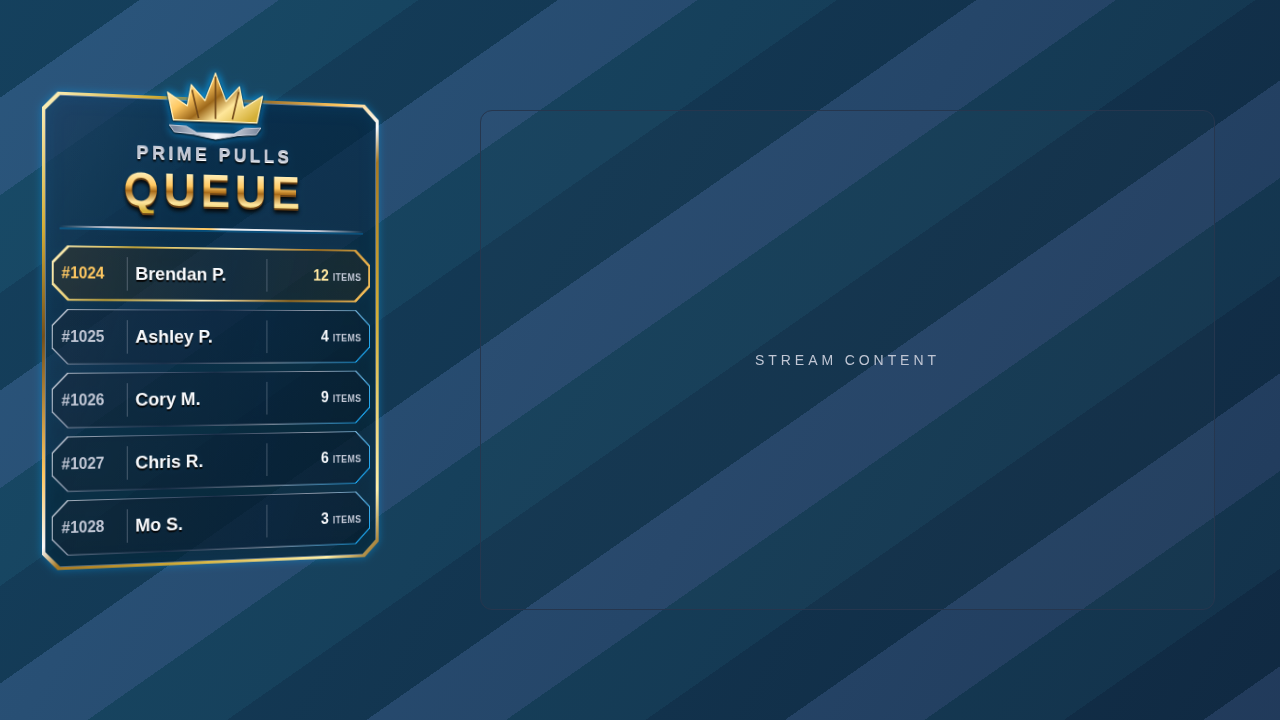
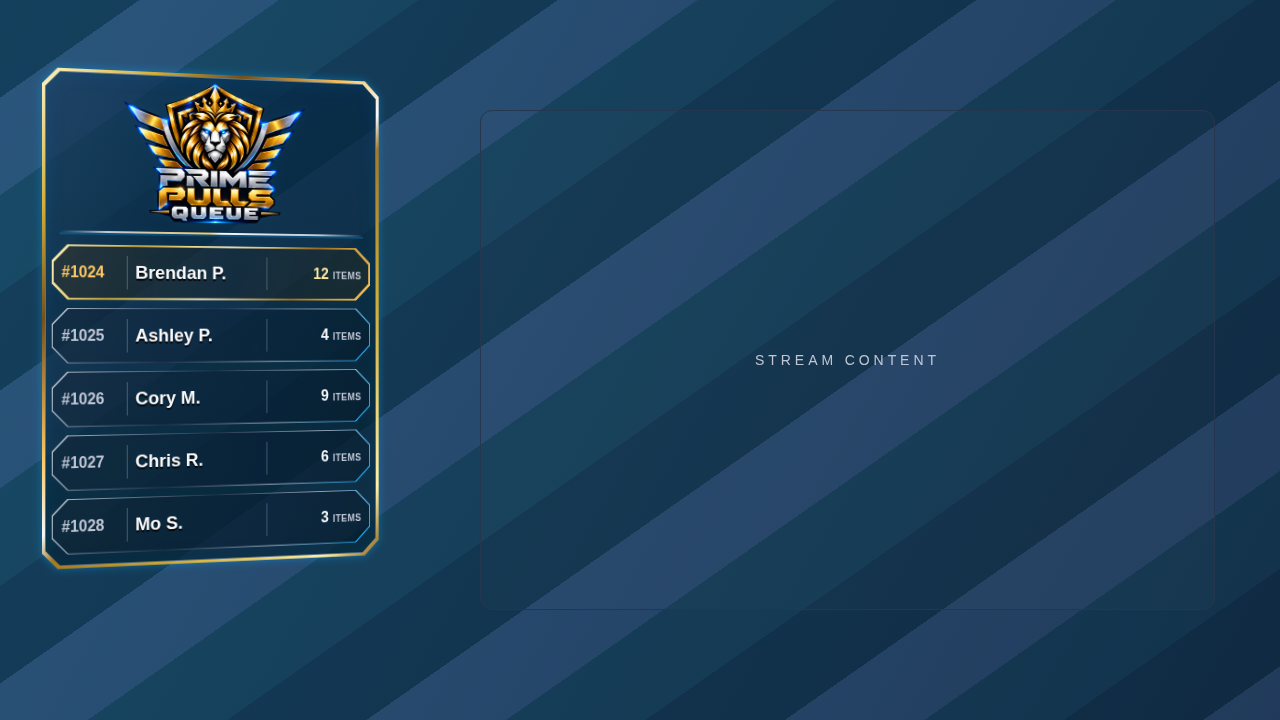
Replace queue header with supplied transparent Prime Pulls artwork

Changed region(s): [[0.0312, 0.0917, 0.3125, 0.7944]]

diff --git a/app/styles.css b/app/styles.css
@@ -30,7 +30,7 @@ button.danger { border-color: var(--danger); color: var(--danger); }
 /* The overlay layout makes the document transparent before hydration. */
 .overlay-body {
   width: min(100%, 390px);
-  padding: 36px 12px 18px;
+  padding: 12px 12px 18px;
   background: transparent;
   color: #f7f9fc;
   font-variant-numeric: tabular-nums;
@@ -86,46 +86,22 @@ button.danger { border-color: var(--danger); color: var(--danger); }
 }
 .queue-title {
   position: relative;
-  padding: 47px 8px 18px;
+  padding: 8px 8px 12px;
   text-align: center;
 }
 .queue-title::after {
   content: '';
   display: block;
   height: 2px;
-  margin-top: 14px;
+  margin-top: 8px;
   background: linear-gradient(90deg, transparent, #c0c6d4 15%, #ffc861 48%, #f7f9fc 52%, #c0c6d4 85%, transparent);
   box-shadow: 0 2px 0 rgba(0,168,255,.25);
 }
-.queue-crest {
-  position: absolute;
-  top: -29px;
-  left: 50%;
-  width: 112px;
-  height: 74px;
-  transform: translateX(-50%);
-  filter: drop-shadow(0 1px 1px #050505) drop-shadow(0 0 4px rgba(0,168,255,.65));
-}
-.queue-brand {
-  color: #c0c6d4;
-  font-size: 19px;
-  font-weight: 900;
-  letter-spacing: .2em;
-  line-height: 1.15;
-  text-shadow: 0 1px 0 #fff, 0 3px 2px #050505;
-}
-.queue-brand span {
+.queue-logo {
   display: block;
-  margin-top: 3px;
-  font-size: 48px;
-  line-height: 1;
-  letter-spacing: .11em;
-  color: #ffc861;
-  background: linear-gradient(#fff6c9 8%, #ffc861 40%, #a96b19 53%, #ffe7a0 77%, #d4af37 95%);
-  background-clip: text;
-  -webkit-text-fill-color: transparent;
-  text-shadow: none;
-  filter: drop-shadow(0 2px 0 #6b4214) drop-shadow(0 3px 2px #050505);
+  width: min(100%, 220px);
+  height: auto;
+  margin: 0 auto;
 }
 .queue-list { list-style: none; padding: 0; margin: 0; display: grid; gap: 8px; }
 .queue-row {
@@ -197,11 +173,8 @@ button.danger { border-color: var(--danger); color: var(--danger); }
 .queue-footer::before, .queue-footer::after { content: ''; height: 1px; width: 28px; background: #d4af37; }
 .queue-more-count { font-size: 18px; line-height: 1; color: #ffc861; }
 @media (max-width: 360px) {
-  .overlay-body { padding: 32px 10px 14px; }
+  .overlay-body { padding: 12px 10px 14px; }
   .queue-panel { padding: 0 10px 12px; transform: perspective(1200px) rotateY(calc(var(--queue-tilt, 12deg) * .4)); }
-  .queue-title { padding-bottom: 14px; }
-  .queue-brand { font-size: 16px; }
-  .queue-brand span { font-size: 40px; }
   .queue-row { grid-template-columns: 60px minmax(0, 1fr) 96px; padding: 0 9px; }
   .queue-number { padding-right: 6px; font-size: 13px; max-width: 72px; }
   .queue-name { padding-inline: 7px; font-size: 16px; }

diff --git a/app/overlay/queue/page.tsx b/app/overlay/queue/page.tsx
@@ -68,21 +68,13 @@ export default function QueueOverlay() {
     <main className="overlay-body" style={{ '--queue-tilt': `${angle}deg` } as CSSProperties}>
       <section className="queue-panel" aria-label="Prime Pulls TCG live queue">
         <header className="queue-title">
-          <svg className="queue-crest" viewBox="0 0 128 84" fill="none" aria-hidden="true">
-            <defs>
-              <linearGradient id="queue-crown-gold" x1="25" y1="6" x2="81" y2="78" gradientUnits="userSpaceOnUse">
-                <stop stopColor="#fff6cd" /><stop offset=".28" stopColor="#ffc861" />
-                <stop offset=".5" stopColor="#9d681b" /><stop offset=".7" stopColor="#ffe79b" /><stop offset="1" stopColor="#d4af37" />
-              </linearGradient>
-              <linearGradient id="queue-crown-silver" x1="15" y1="68" x2="117" y2="76" gradientUnits="userSpaceOnUse">
-                <stop stopColor="#7e8a9f" /><stop offset=".5" stopColor="#f7f9fc" /><stop offset="1" stopColor="#7e8a9f" />
-              </linearGradient>
-            </defs>
-            <path d="M12 60 5 28 29 43 34 18 51 36 64 3 77 36 94 18 99 43 123 28 116 60Z" fill="url(#queue-crown-gold)" stroke="#fff1bd" strokeWidth="1.5" strokeLinejoin="round" />
-            <path d="M64 7V57M35 24 43 57M93 24 85 57" stroke="#714818" strokeWidth="2" />
-            <path d="m7 66 21 1 13 7h46l13-7 21-1-6 8-24 2-27 5-27-5-24-2Z" fill="url(#queue-crown-silver)" stroke="#d7deed" />
-          </svg>
-          <div className="queue-brand">PRIME PULLS<span>QUEUE</span></div>
+          <img
+            className="queue-logo"
+            src="/branding/prime-pulls-queue-header.png"
+            alt="Prime Pulls Queue"
+            width={1536}
+            height={1024}
+          />
         </header>
         {!loaded ? (
           <div className="queue-empty" role="status">{reconnecting ? 'QUEUE RECONNECTING' : 'QUEUE CONNECTING'}</div>

diff --git a/tests/queue.spec.ts b/tests/queue.spec.ts
@@ -22,6 +22,9 @@ for (const count of [0, 1, 2, 5, 6, 17]) {
     await seed(request, count);
     await page.goto('/overlay/queue');
     await expect(page.locator('.queue-panel')).toBeVisible();
+    const logo = page.getByRole('img', { name: 'Prime Pulls Queue', exact: true });
+    await expect(logo).toBeVisible();
+    await expect.poll(() => logo.evaluate((img: HTMLImageElement) => img.complete && img.naturalWidth > 0)).toBe(true);
     await expect(page.locator('.queue-row')).toHaveCount(Math.min(count, 5));
     await expect(page.locator('.queue-footer')).toHaveCount(count > 5 ? 1 : 0);
     if (count > 5) await expect(page.locator('.queue-footer')).toHaveText(`+${count - 5} MORE IN QUEUE`);
@@ -50,7 +53,7 @@ for (const count of [0, 1, 2, 5, 6, 17]) {
     expect(geometry.body).toBe('rgba(0, 0, 0, 0)');
     expect(geometry.html).toBe('rgba(0, 0, 0, 0)');
     expect(geometry.bottomGap).toBeLessThan(15);
-    expect(geometry.height).toBeLessThan(count <= 1 ? 240 : count === 2 ? 310 : 560);
+    expect(geometry.height).toBeLessThan(count <= 1 ? 265 : count === 2 ? 340 : 560);
     expect(geometry.overflow).toBe(false);
     expect(geometry.bounds.left).toBeGreaterThanOrEqual(0);
     expect(geometry.bounds.top).toBeGreaterThanOrEqual(0);

diff --git a/README.md b/README.md
@@ -25,10 +25,11 @@ The existing backend, operator controls, routes, and ordering remain in place.
 
 ## V2 behavior
 
-The overlay follows the metallic reference: a raised five-point crown, larger
-PRIME PULLS / QUEUE header, beveled gold/silver frame, navy rows, column dividers,
-blue edge light, and a gold current row. The center crown point is tallest.
-There are no product images or persistent lion artwork.
+The header uses the supplied transparent Prime Pulls Queue lion/crown artwork
+at `public/branding/prime-pulls-queue-header.png`, replacing the earlier generated
+crown and text. Its original colors and transparency are preserved. The queue
+keeps the beveled gold/silver frame, translucent navy rows, column dividers,
+blue edge light, and gold current row. There are no product thumbnails.
 
 For placement on the left side of a stream, the panel uses a **12° inward turn**:
 its left edge stays anchored while the right edge recedes, so its face points
@@ -231,7 +232,7 @@ The placement image uses a labeled stream-content placeholder, not a live stream
 
 Preview descriptions at 390px canvas width:
 
-- **1 order:** metallic crown/header and a single gold-emphasized row; no footer.
+- **1 order:** supplied logo header and a single gold-emphasized row; no footer.
 - **5 orders:** inward-angled metallic frame and five rows; only current/first is gold.
 - **17 orders:** same five rows plus a small `+12 MORE IN QUEUE` footer.
 
